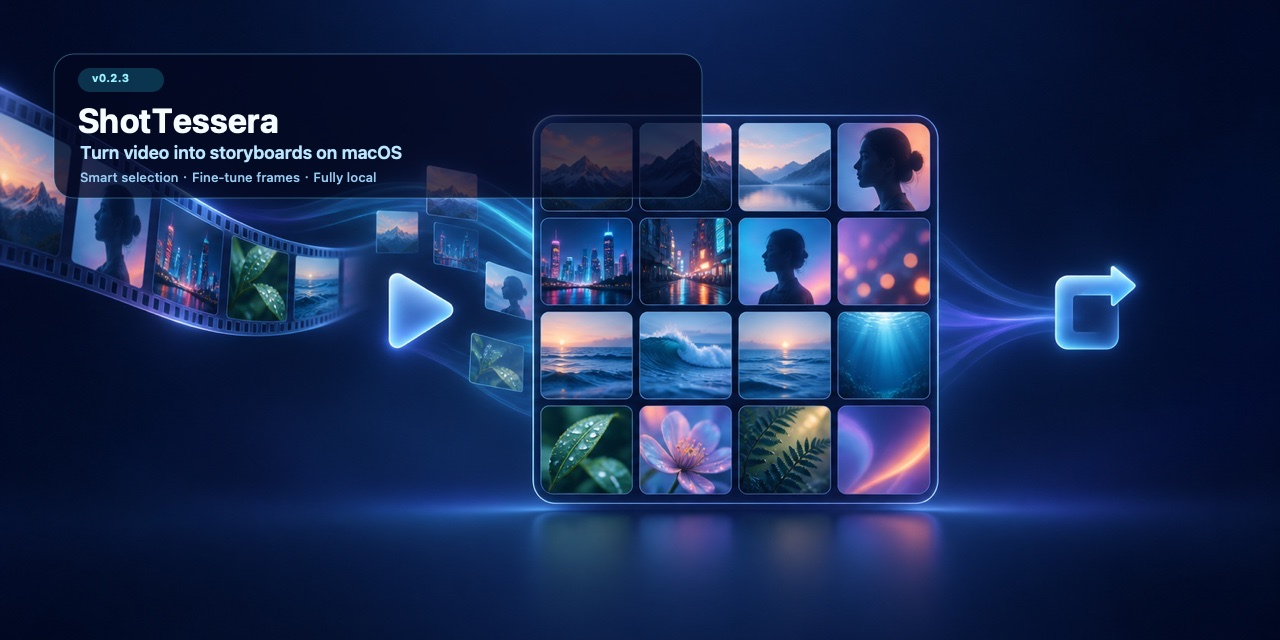
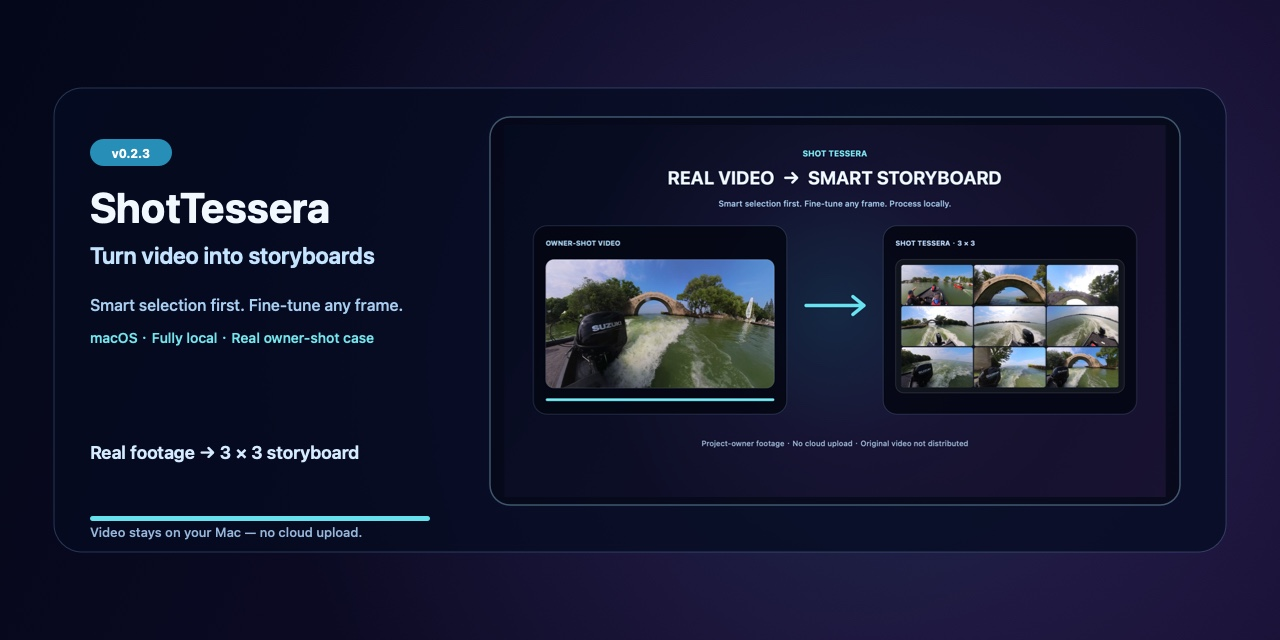
Use real footage in social preview cards

diff --git a/scripts/create_social_preview.swift b/scripts/create_social_preview.swift
@@ -1,8 +1,12 @@
 import AppKit
 import Foundation
 
-/// Adds deterministic, legible product copy to the repository social card.
-/// The source visual remains untouched; this script writes a new sibling file.
+enum SocialPreviewError: Error {
+    case invalidArguments
+    case unreadableImage(String)
+    case unableToCreateBitmap
+    case unableToWrite(String)
+}
 
 private let canvas = NSSize(width: 1280, height: 640)
 
@@ -10,8 +14,21 @@ private func color(_ red: CGFloat, _ green: CGFloat, _ blue: CGFloat, _ alpha: C
     NSColor(calibratedRed: red, green: green, blue: blue, alpha: alpha)
 }
 
-private func rounded(_ rect: NSRect, radius: CGFloat) -> NSBezierPath {
-    NSBezierPath(roundedRect: rect, xRadius: radius, yRadius: radius)
+private func fill(_ rect: NSRect, color fillColor: NSColor, radius: CGFloat = 0) {
+    let path = radius > 0
+        ? NSBezierPath(roundedRect: rect, xRadius: radius, yRadius: radius)
+        : NSBezierPath(rect: rect)
+    fillColor.setFill()
+    path.fill()
+}
+
+private func stroke(_ rect: NSRect, color strokeColor: NSColor, width: CGFloat = 1, radius: CGFloat = 0) {
+    let path = radius > 0
+        ? NSBezierPath(roundedRect: rect, xRadius: radius, yRadius: radius)
+        : NSBezierPath(rect: rect)
+    strokeColor.setStroke()
+    path.lineWidth = width
+    path.stroke()
 }
 
 private func drawText(
@@ -20,70 +37,114 @@ private func drawText(
     size: CGFloat,
     weight: NSFont.Weight,
     color textColor: NSColor,
-    tracking: CGFloat = 0
+    alignment: NSTextAlignment = .left
 ) {
-    let style = NSMutableParagraphStyle()
-    style.lineBreakMode = .byTruncatingTail
-    let attributes: [NSAttributedString.Key: Any] = [
-        .font: NSFont.systemFont(ofSize: size, weight: weight),
-        .foregroundColor: textColor,
-        .kern: tracking,
-        .paragraphStyle: style
-    ]
-    (value as NSString).draw(in: rect, withAttributes: attributes)
+    let paragraph = NSMutableParagraphStyle()
+    paragraph.alignment = alignment
+    paragraph.lineBreakMode = .byTruncatingTail
+    NSAttributedString(
+        string: value,
+        attributes: [
+            .font: NSFont.systemFont(ofSize: size, weight: weight),
+            .foregroundColor: textColor,
+            .paragraphStyle: paragraph
+        ]
+    ).draw(in: rect)
 }
 
-guard CommandLine.arguments.count == 3 else {
-    fputs("Usage: create_social_preview.swift <input.jpg> <output.jpg>\n", stderr)
-    exit(64)
+private func drawImage(_ image: NSImage, in rect: NSRect) {
+    let size = image.size
+    guard size.width > 0, size.height > 0 else { return }
+    let scale = min(rect.width / size.width, rect.height / size.height)
+    let rendered = NSSize(width: size.width * scale, height: size.height * scale)
+    image.draw(
+        in: NSRect(
+            x: rect.midX - rendered.width / 2,
+            y: rect.midY - rendered.height / 2,
+            width: rendered.width,
+            height: rendered.height
+        ),
+        from: .zero,
+        operation: .sourceOver,
+        fraction: 1,
+        respectFlipped: false,
+        hints: [.interpolation: NSImageInterpolation.high]
+    )
 }
 
-let inputURL = URL(fileURLWithPath: CommandLine.arguments[1])
-let outputURL = URL(fileURLWithPath: CommandLine.arguments[2])
-guard let source = NSImage(contentsOf: inputURL) else {
-    fputs("Cannot load input image: \(inputURL.path)\n", stderr)
-    exit(1)
+private func render(caseStudy: NSImage, compact: Bool) throws -> Data {
+    guard let bitmap = NSBitmapImageRep(
+        bitmapDataPlanes: nil,
+        pixelsWide: Int(canvas.width),
+        pixelsHigh: Int(canvas.height),
+        bitsPerSample: 8,
+        samplesPerPixel: 4,
+        hasAlpha: true,
+        isPlanar: false,
+        colorSpaceName: .deviceRGB,
+        bytesPerRow: 0,
+        bitsPerPixel: 0
+    ) else { throw SocialPreviewError.unableToCreateBitmap }
+    bitmap.size = canvas
+    guard let graphics = NSGraphicsContext(bitmapImageRep: bitmap) else {
+        throw SocialPreviewError.unableToCreateBitmap
+    }
+    NSGraphicsContext.saveGraphicsState()
+    NSGraphicsContext.current = graphics
+    graphics.imageInterpolation = .high
+
+    NSGradient(colors: [color(0.018, 0.030, 0.075), color(0.070, 0.045, 0.145)])!
+        .draw(in: NSRect(origin: .zero, size: canvas), angle: -24)
+    let glow = NSGradient(colors: [color(0.24, 0.78, 0.90, 0.17), color(0.47, 0.38, 0.95, 0.10), .clear])!
+    glow.draw(
+        fromCenter: NSPoint(x: 875, y: 310), radius: 0,
+        toCenter: NSPoint(x: 875, y: 310), radius: 620,
+        options: [.drawsAfterEndingLocation]
+    )
+
+    fill(NSRect(x: 54, y: 88, width: 1172, height: 464), color: color(0.02, 0.04, 0.095, 0.75), radius: 28)
+    stroke(NSRect(x: 54, y: 88, width: 1172, height: 464), color: color(0.48, 0.76, 1, 0.24), width: 1, radius: 28)
+
+    fill(NSRect(x: 90, y: 474, width: 82, height: 27), color: color(0.13, 0.48, 0.66), radius: 13.5)
+    drawText("v0.2.3", in: NSRect(x: 90, y: 480, width: 82, height: 14), size: 12, weight: .bold, color: .white, alignment: .center)
+    drawText("ShotTessera", in: NSRect(x: 90, y: 410, width: 360, height: 48), size: 42, weight: .bold, color: color(0.93, 0.97, 1))
+    drawText("Turn video into storyboards", in: NSRect(x: 90, y: 367, width: 390, height: 31), size: 23, weight: .semibold, color: color(0.72, 0.86, 1))
+    drawText("Smart selection first. Fine-tune any frame.", in: NSRect(x: 90, y: 322, width: 390, height: 22), size: 16, weight: .medium, color: color(0.60, 0.76, 0.93))
+    drawText("macOS · Fully local · Real owner-shot case", in: NSRect(x: 90, y: 293, width: 410, height: 18), size: 14, weight: .medium, color: color(0.40, 0.88, 0.91))
+
+    let caseRect = NSRect(x: 490, y: compact ? 135 : 122, width: 690, height: compact ? 388 : 405)
+    fill(caseRect, color: color(0, 0, 0, 0.30), radius: 20)
+    NSGraphicsContext.saveGraphicsState()
+    NSBezierPath(roundedRect: caseRect, xRadius: 20, yRadius: 20).addClip()
+    drawImage(caseStudy, in: caseRect.insetBy(dx: 8, dy: 8))
+    NSGraphicsContext.restoreGraphicsState()
+    stroke(caseRect, color: color(0.58, 0.87, 1, 0.35), width: 1.5, radius: 20)
+
+    drawText(
+        compact ? "Real footage → 3 × 3 storyboard" : "Real footage transformed on your Mac",
+        in: NSRect(x: 90, y: 154, width: 360, height: 44),
+        size: compact ? 18 : 20,
+        weight: .semibold,
+        color: color(0.80, 0.90, 1)
+    )
+    fill(NSRect(x: 90, y: 119, width: 340, height: 5), color: color(0.34, 0.86, 0.91), radius: 2.5)
+    drawText("Video stays on your Mac — no cloud upload.", in: NSRect(x: 90, y: 100, width: 360, height: 16), size: 13, weight: .medium, color: color(0.52, 0.65, 0.82))
+
+    NSGraphicsContext.restoreGraphicsState()
+    guard let jpeg = bitmap.representation(using: .jpeg, properties: [.compressionFactor: 0.9]) else {
+        throw SocialPreviewError.unableToWrite("preview")
+    }
+    return jpeg
 }
 
-let bitmap = NSBitmapImageRep(
-    bitmapDataPlanes: nil,
-    pixelsWide: Int(canvas.width),
-    pixelsHigh: Int(canvas.height),
-    bitsPerSample: 8,
-    samplesPerPixel: 4,
-    hasAlpha: true,
-    isPlanar: false,
-    colorSpaceName: .deviceRGB,
-    bytesPerRow: 0,
-    bitsPerPixel: 0
-)!
-let context = NSGraphicsContext(bitmapImageRep: bitmap)!
-NSGraphicsContext.saveGraphicsState()
-NSGraphicsContext.current = context
-context.imageInterpolation = .high
-
-source.draw(in: NSRect(origin: .zero, size: canvas), from: .zero, operation: .sourceOver, fraction: 1)
-
-let panel = NSRect(x: 54, y: 442, width: 648, height: 144)
-color(0.012, 0.03, 0.09, 0.72).setFill()
-rounded(panel, radius: 20).fill()
-color(0.42, 0.86, 1, 0.34).setStroke()
-let panelStroke = rounded(panel, radius: 20)
-panelStroke.lineWidth = 1
-panelStroke.stroke()
-
-let pill = NSRect(x: 78, y: 548, width: 86, height: 24)
-color(0.16, 0.76, 0.91, 0.22).setFill()
-rounded(pill, radius: 12).fill()
-drawText("v0.2.3", in: NSRect(x: 92, y: 553, width: 60, height: 16), size: 11, weight: .bold, color: color(0.55, 0.94, 1), tracking: 0.4)
-
-drawText("ShotTessera", in: NSRect(x: 78, y: 500, width: 420, height: 40), size: 34, weight: .bold, color: color(0.95, 0.985, 1))
-drawText("Turn video into storyboards on macOS", in: NSRect(x: 80, y: 474, width: 560, height: 24), size: 18, weight: .semibold, color: color(0.68, 0.88, 1))
-drawText("Smart selection · Fine-tune frames · Fully local", in: NSRect(x: 80, y: 453, width: 560, height: 18), size: 13, weight: .medium, color: color(0.53, 0.76, 0.94), tracking: 0.1)
-
-NSGraphicsContext.restoreGraphicsState()
-guard let data = bitmap.representation(using: .jpeg, properties: [.compressionFactor: 0.83]) else {
-    fputs("Cannot encode JPEG\n", stderr)
-    exit(1)
+guard CommandLine.arguments.count == 4 else {
+    fputs("Usage: create_social_preview.swift <real-case-image> <social-preview.jpg> <social-preview-v2.jpg>\\n", stderr)
+    throw SocialPreviewError.invalidArguments
 }
-try data.write(to: outputURL)
+
+let caseURL = URL(fileURLWithPath: CommandLine.arguments[1])
+guard let caseStudy = NSImage(contentsOf: caseURL) else {
+    throw SocialPreviewError.unreadableImage(caseURL.path)
+}
+try render(caseStudy: caseStudy, compact: false).write(to: URL(fileURLWithPath: CommandLine.arguments[2]), options: .atomic)
+try render(caseStudy: caseStudy, compact: true).write(to: URL(fileURLWithPath: CommandLine.arguments[3]), options: .atomic)

diff --git a/docs/assets/README_DEMO_ASSET.md b/docs/assets/README_DEMO_ASSET.md
@@ -1,7 +1,8 @@
 # README Demo Asset
 
-`video-to-storyboard-demo.gif`, its PNG fallback, and
-`video-to-storyboard-overview.png` are project documentation assets built from
+`video-to-storyboard-demo.gif`, its PNG fallback,
+`video-to-storyboard-overview.png`, `social-preview.jpg`, and
+`social-preview-v2.jpg` are project documentation assets built from
 real footage shot and supplied by the project owner. The original 406 MB video
 is deliberately not committed or redistributed.
 
@@ -40,6 +41,23 @@ The earlier all-synthetic renderer remains available as
 `scripts/create_readme_demo.swift` for tests or environments where the approved
 owner footage is unavailable. The committed real-footage derivative assets are
 released with the project documentation under the [MIT License](../../LICENSE).
+
+## Social preview assets
+
+`social-preview.jpg` and `social-preview-v2.jpg` are static 1280 × 640 cards,
+not frames from the GIF. They use `video-to-storyboard-overview.png`, so their
+featured source frame and 3 × 3 result are both derived from the approved
+owner-shot footage. This makes either card safe to use as a link preview or an
+IM/social cover where animated media may show only its first frame.
+
+To regenerate both cards:
+
+```sh
+swift scripts/create_social_preview.swift \
+  docs/assets/video-to-storyboard-overview.png \
+  docs/assets/social-preview.jpg \
+  docs/assets/social-preview-v2.jpg
+```
 
 ## Installation guides
 

diff --git a/README.ja.md b/README.ja.md
@@ -4,6 +4,10 @@
 
 ![プロジェクト所有者が撮影した湖上映像から ShotTessera が九分割の絵コンテを生成するアニメーション](docs/assets/video-to-storyboard-demo.gif)
 
+![所有者撮影の湖上ボート映像を九分割の絵コンテに変換した、共有用の静止カバー](docs/assets/social-preview-v2.jpg)
+
+SNS・IM・メディア掲載など一枚だけ表示される場面では、GIF 単体ではなく[標準ソーシャルカード](docs/assets/social-preview.jpg)またはこの静止カバーを使用してください。
+
 ShotTessera は、動画から代表的なフレームを選び、一枚の見やすい絵コンテ画像にまとめるネイティブ macOS アプリです。`tessera` はモザイクを構成する小片を意味します。
 
 **まずスマート選択、必要なコマだけ手動調整。すべてローカルで完結します。**

diff --git a/README.zh-CN.md b/README.zh-CN.md
@@ -4,6 +4,10 @@
 
 ![自摄船行湖面视频经 ShotTessera 智能选帧生成九宫格分镜图](docs/assets/video-to-storyboard-demo.gif)
 
+![适合社交平台静态预览的真实案例：自摄船行湖面视频经 ShotTessera 生成九宫格分镜图](docs/assets/social-preview-v2.jpg)
+
+社交平台、IM 或媒体转载只显示单帧时，请使用[标准社交预览图](docs/assets/social-preview.jpg)或此静态案例图，不要只使用 GIF。
+
 ShotTessera 是一款原生 macOS 分镜图工具：从视频中挑选有代表性的画面，拼成一张干净的分镜图。`tessera` 意为马赛克的小拼片，正对应本项目把镜头组织为整体的方式。
 
 **先智能选帧，再手动微调；全程本地完成。**

diff --git a/README.md b/README.md
@@ -4,6 +4,10 @@
 
 ![Owner-shot lake footage becoming a nine-frame storyboard generated by ShotTessera](docs/assets/video-to-storyboard-demo.gif)
 
+![Shareable static cover showing a real owner-shot boat video transformed into a nine-frame storyboard](docs/assets/social-preview-v2.jpg)
+
+For one-frame social, IM, or media previews, use the [standard social card](docs/assets/social-preview.jpg) or this compact static cover—not the GIF alone.
+
 **ShotTessera** is a small native macOS app that turns video into a clean contact sheet, storyboard, or screenshot collage. It is also named **视频一键截屏拼图**.
 
 **Smart selection first. Fine-tune any frame. Export entirely locally.**
